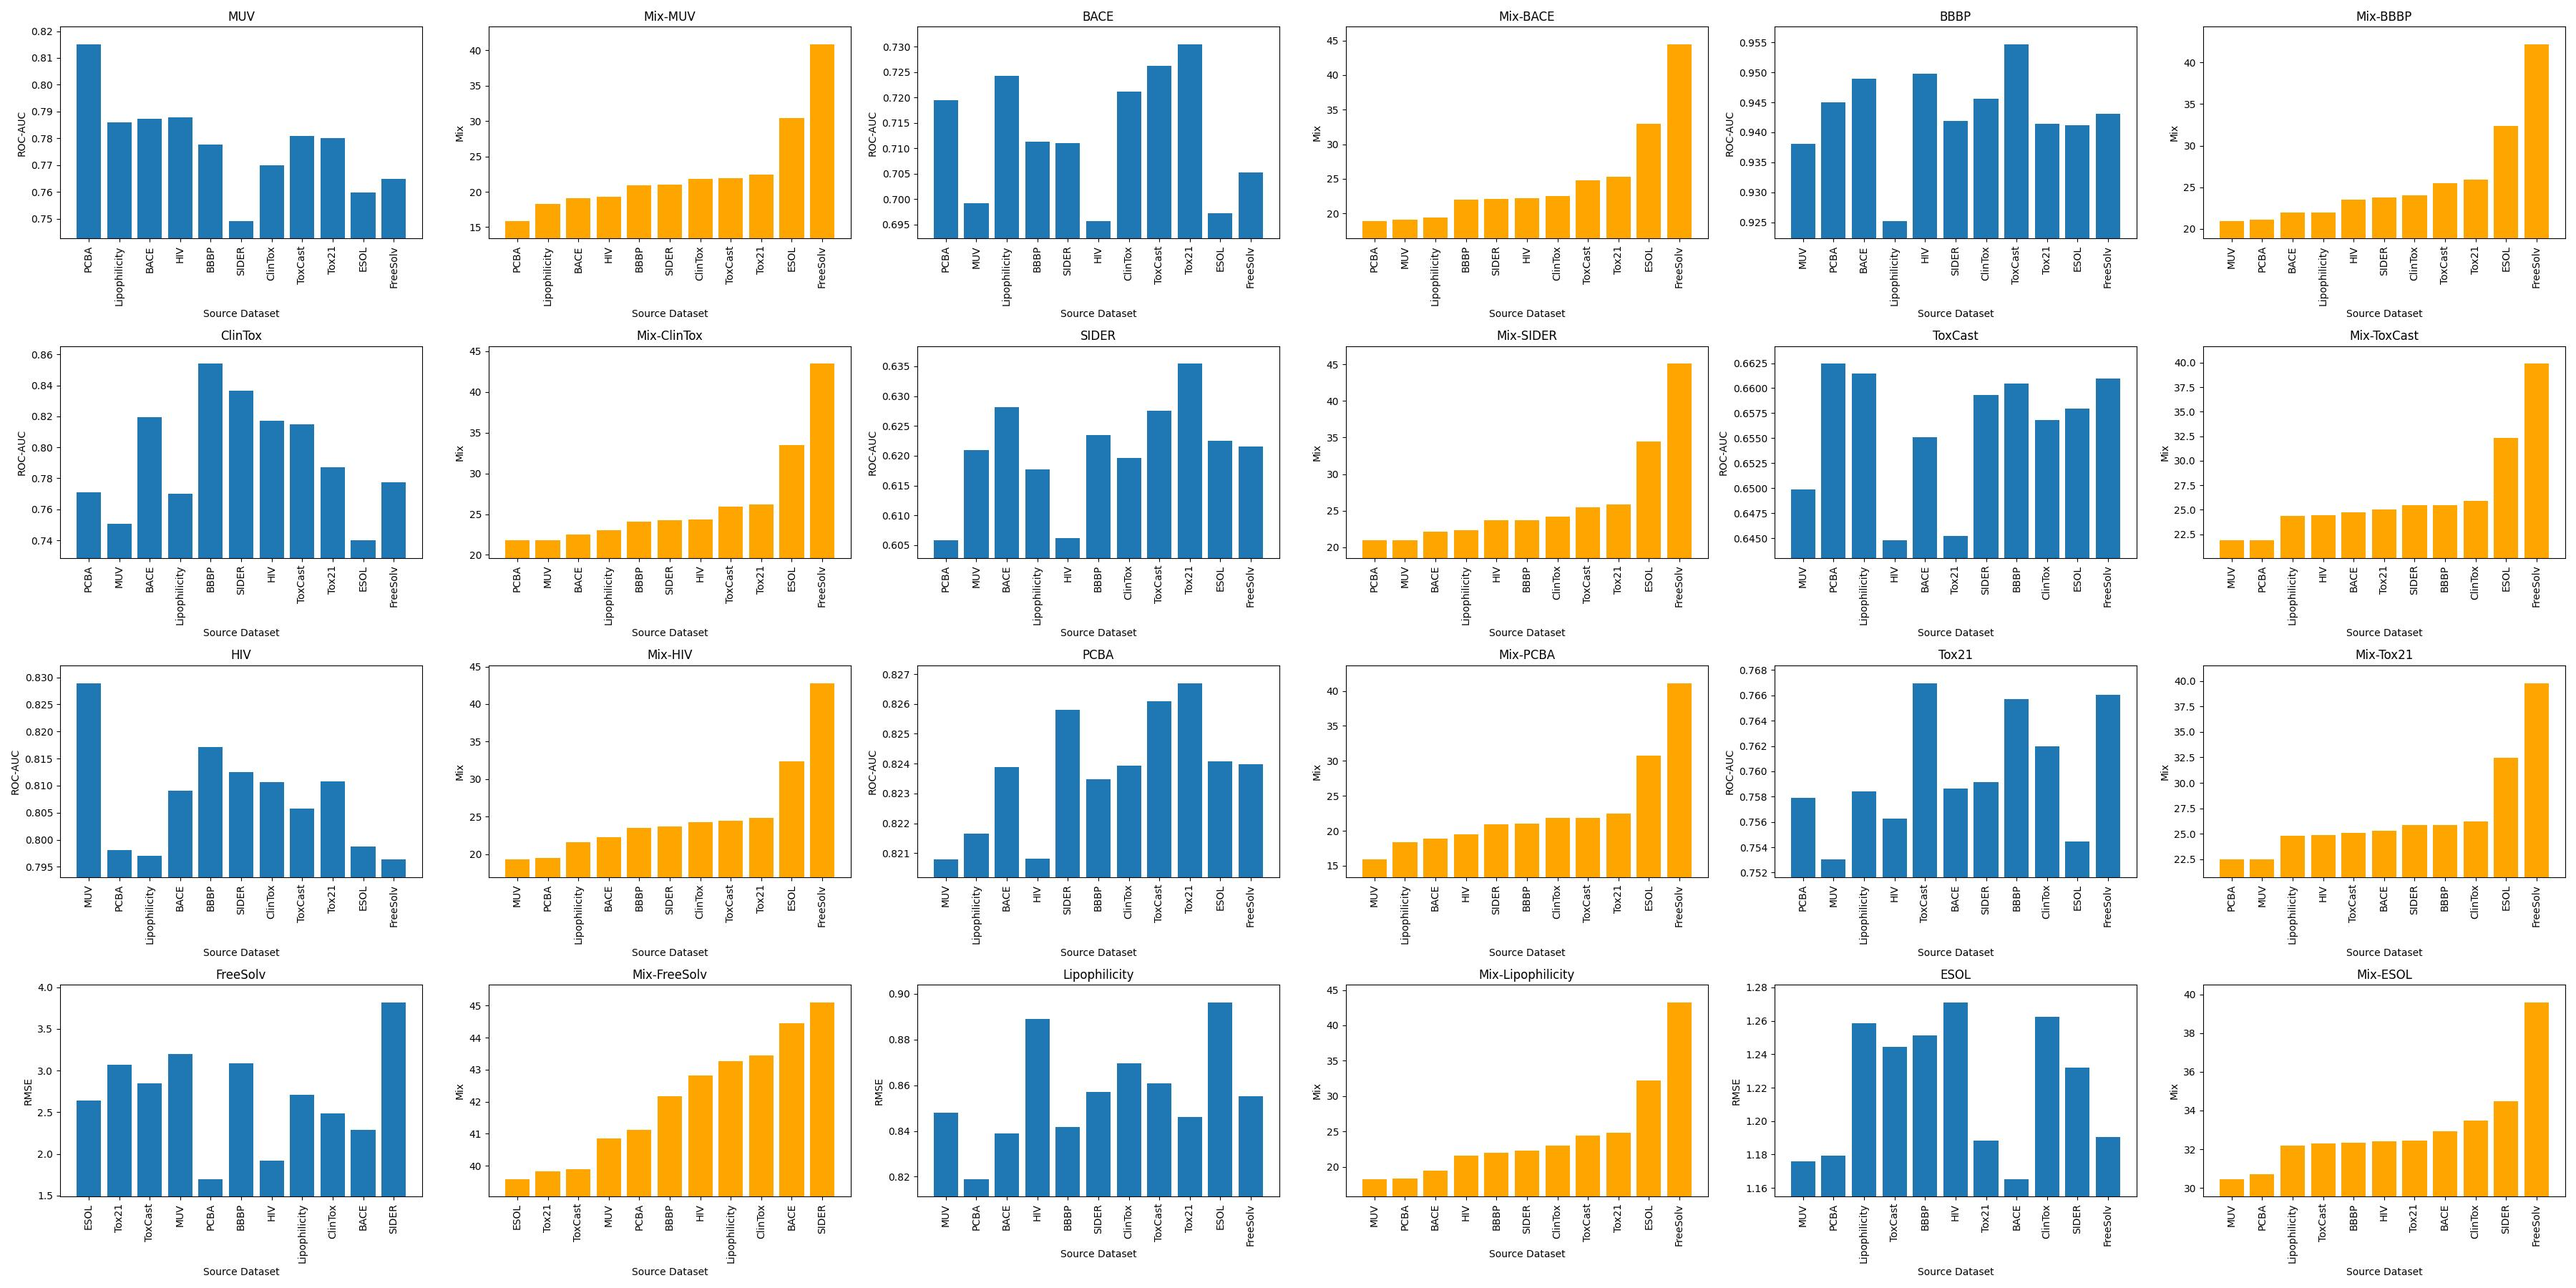
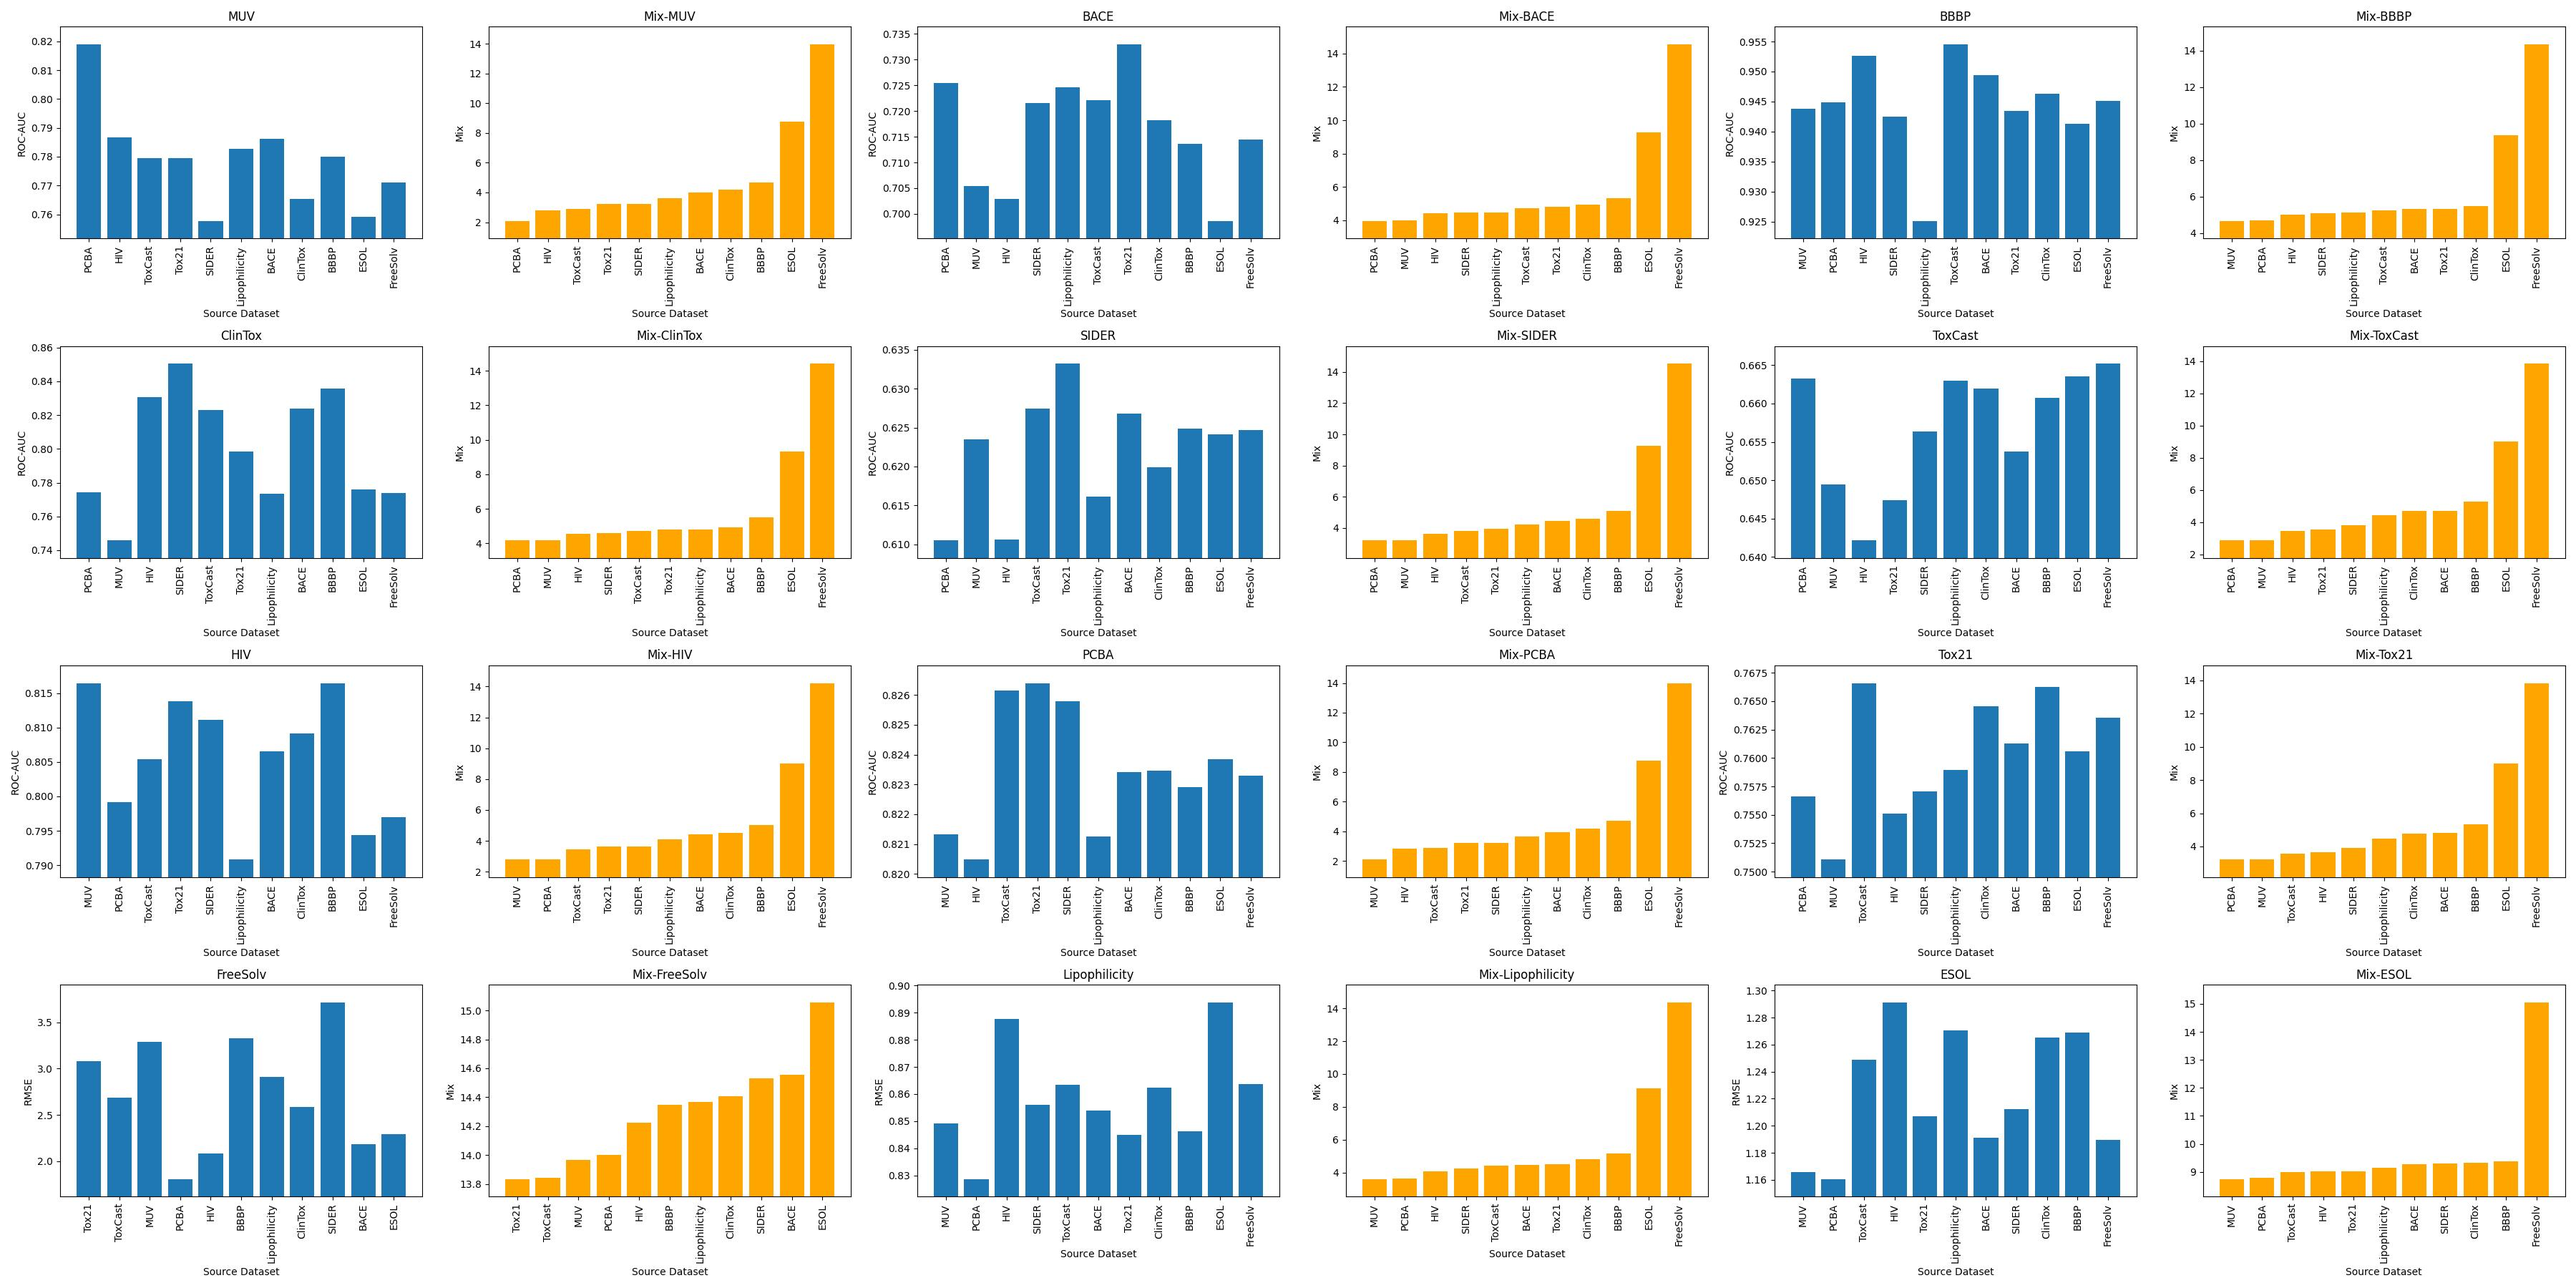
12-04-0

diff --git a/src/visualize.py b/src/visualize.py
@@ -3,18 +3,18 @@ import numpy as np
 import matplotlib.pyplot as plt
 
 datasets = ['MUV', 'BACE', 'BBBP', 'ClinTox', 'SIDER','ToxCast', 'HIV', 'PCBA', 'Tox21', 'FreeSolv', 'Lipophilicity', 'ESOL']
-finetune_scores = [[999999999.0, 0.7873669323416496, 0.7777836199478221, 0.7699824876520696, 0.7491559723061587, 0.7807813056356621, 0.7877496439008448, 0.8150619429448567, 0.7801018656679727, 0.7648326563110038, 0.7860839983610644, 0.7596532836349287],
-                    [0.699271499644634, 999999999.0, 0.7112651030561479, 0.7212153518123667, 0.710998578535892, 0.7261904761904762, 0.6957178393745558, 0.7195273631840795, 0.73045486851457, 0.7053127221037669, 0.7243248045486852, 0.6972281449893389],
-                    [0.9380337732919255, 0.9489033385093169, 999999999.0, 0.9456521739130435, 0.9419642857142858, 0.9546777950310559, 0.9497282608695652, 0.9450213509316769, 0.9414790372670807, 0.9430803571428571, 0.9252232142857142, 0.9411393633540373],
-                    [0.7508437147708948, 0.8193469326597885, 0.8540587496610871, 999999999.0, 0.8366537879760834, 0.8150231174279721, 0.8173027526863308, 0.7709144940565378, 0.7869629122251237, 0.7776106996589466, 0.7702500463775561, 0.7399949341438703],
-                    [0.6209043435004193, 0.6281871410568144, 0.6234719934746416, 0.6196350378869614, 999999999.0, 0.6275156150876701, 0.6061787386039481, 0.6058200093459737, 0.6354407733626486, 0.621568451740306, 0.6177553600938095, 0.6224797757561747],
-                    [0.6498351281788607, 0.6551176908287238, 0.6604289880621544, 0.656811559317882, 0.659352167304919, 999999999.0, 0.6447853837792411, 0.6624486988821054, 0.6452161783593846, 0.6609343554895913, 0.6614340729432195, 0.6579337299642668],
-                    [0.8289593743876151, 0.8090293087399569, 0.8171296296296295, 0.8106636108661571, 0.812541335978836, 0.8057392710170488, 999999999.0, 0.7981548843817362, 0.8108373750734862, 0.7963361013129531, 0.7970464677640604, 0.7987688002155595],
-                    [0.8207827065052304, 0.8238749027261603, 0.8234661840647646, 0.8239249963205644, 0.8258107548658267, 0.8260906362034485, 0.8208228176918884, 999999999.0, 0.8267025469461495, 0.8239807851867574, 0.8216535160089318, 0.8240880041384175],
-                    [0.7530226612888806, 0.7586637836209992, 0.7656900167500761, 0.7619578955096205, 0.7591310192687527, 0.766976389119144, 0.7562487276274534, 0.757900131075, 999999999.0, 0.7660450613424018, 0.7583954650033673, 0.7544778134006755],
-                    [-3.202622890472412, -2.2877867221832275, -3.0911046266555786, -2.485343813896179, -3.818617343902588, -2.849574565887451, -1.9228723645210266, -1.7011306285858154, -3.065954804420471, 999999999.0, -2.7069114446640015, -2.640520453453064],
-                    [-0.8480665981769562, -0.8389024138450623, -0.8416616916656494, -0.8695200979709625, -0.8569908440113068, -0.8609018623828888, -0.8891417384147644, -0.8190142214298248, -0.8461355865001678, -0.8553101718425751, 999999999.0, -0.896291047334671],
-                    [-1.1760368943214417, -1.1653852462768555, -1.251383900642395, -1.2625454664230347, -1.2320400476455688, -1.2444083094596863, -1.2710844278335571, -1.1793659925460815, -1.1881128549575806, -1.1903642416000366, -1.2583816051483154, 999999999.0],
+finetune_scores = [[999999999.0, 0.7861924121372482, 0.7799087350942115, 0.7654639608123642, 0.7576960845483156, 0.7793760539932908, 0.7866273131703517, 0.8189690441086743, 0.7794411674865491, 0.7711481395133755, 0.7827753719840105, 0.7590608776990996],
+                    [0.7054371002132196, 999999999.0, 0.7136815920398011, 0.7181592039800995, 0.7216062544420754, 0.7221748400852878, 0.7029140014214641, 0.7254442075337597, 0.7329779673063255, 0.714498933901919, 0.7245557924662402, 0.6986140724946694],
+                    [0.9438470496894411, 0.9493982919254659, 999999999.0, 0.9463509316770187, 0.9425271739130435, 0.9545225155279503, 0.9526203416149068, 0.9448951863354036, 0.9434006211180124, 0.9451669254658386, 0.9251164596273291, 0.9413431677018634],
+                    [0.7459016510409977, 0.8240406980892446, 0.8356554218930604, 999999999.0, 0.8504145440015982, 0.8229069452174038, 0.8305178589266093, 0.774236910826662, 0.7984203090885741, 0.7737966807939838, 0.7734185253364156, 0.7758219529945631],
+                    [0.623484877299781, 0.6267691401542763, 0.6248863956643044, 0.6198601344279998, 999999999.0, 0.6274552092371379, 0.6105718723733639, 0.6105073176363811, 0.633224706155442, 0.6246932989432883, 0.6161567524588716, 0.6241619227628555],
+                    [0.649411467925245, 0.6537452367018676, 0.6607451639374441, 0.6619317247742804, 0.6563262303149001, 999999999.0, 0.6421752585790734, 0.6632552905895939, 0.6474295817539781, 0.6651998780338119, 0.6629760173343747, 0.6635532206222157],
+                    [0.81648540074466, 0.8065733392122281, 0.816478664511072, 0.8091781182637663, 0.8111760239075053, 0.8054226680384087, 999999999.0, 0.799129188712522, 0.8137896825396826, 0.7969564471879286, 0.7908105526161082, 0.7943446257103665],
+                    [0.8213139299617984, 0.8234196066053749, 0.8229147411368635, 0.823463594275054, 0.8257840576800344, 0.8261521164425141, 0.8204783803525846, 999999999.0, 0.8264038958538211, 0.8232997654793435, 0.8212554395682712, 0.8238458716800471],
+                    [0.7510613509043509, 0.7613026703477526, 0.7662281843183246, 0.7645764633237604, 0.7570803525231479, 0.7665991146076095, 0.7551084656240267, 0.7566333953045269, 999999999.0, 0.7635420555095767, 0.7589476026677417, 0.7606147304007986],
+                    [-3.2857742309570312, -2.183779811859131, -3.3274004459381104, -2.588774013519287, -3.7155613899230957, -2.6853470325469972, -2.0827045679092406, -1.8103657722473145, -3.084203290939331, 999999999.0, -2.9069872856140138, -2.292416882514954],
+                    [-0.8491034150123596, -0.8539701581001282, -0.8461845517158508, -0.862350594997406, -0.8561092495918274, -0.8633780956268311, -0.8878098487854004, -0.8286849737167359, -0.8448111653327942, -0.8636900901794433, 999999999.0, -0.8938391447067261],
+                    [-1.1656569957733154, -1.1911952257156373, -1.2687829971313476, -1.2650492668151856, -1.212479591369629, -1.248785138130188, -1.2912392139434814, -1.1607176065444946, -1.2068325281143188, -1.1896514177322388, -1.2707115888595581, 999999999.0],
                     ]
 PGM_scores =   [[0.0, 1.7232850950676948, 2.24021656322293, 1.5452966908924282, 0.567035676795058, 0.03526793307173648, 0.32554140489082783, 0.024315959308296442, 0.3396617466933094, 9.953791741281748, 1.4250879758037627, 5.504459259100258], 
                 [1.7232850950676948, 0.0, 2.854190533980727, 2.3187336046248674, 1.8128186638932675, 1.7233403923455626, 1.751066738506779, 1.723094319459051, 1.7555952945258468, 10.09291154332459, 2.2449619427789003, 5.754615995101631], 
@@ -86,10 +86,23 @@ def visualize(scores1, scores2, name):
     # fig.show()
     fig.savefig(os.path.join(root_path, f"{name}.jpg"))
 
-# visualize(finetune_scores, os.path.join(root_path,"finetune"))
-# visualize(PGM_scores, os.path.join(root_path,"PGM"))
-# visualize(molecule_sims, os.path.join(root_path,"molecule"))
 
 visualize(finetune_scores, PGM_distance, "PGM")
 visualize(finetune_scores, molecule_distance, "Molecule")
-visualize(finetune_scores, PGM_distance + molecule_distance*2.164, "Mix")
+visualize(finetune_scores, PGM_distance + molecule_distance*0.281, "Mix")
+
+def transfermap(scores, name):
+    plt.figure(figsize=(8,8))
+    plt.imshow(scores, cmap='viridis', interpolation='nearest')
+    plt.xticks(range(12), datasets, rotation=90) 
+    plt.yticks(range(12), datasets)
+    plt.colorbar(shrink=0.7)
+    for i in range(12):
+        for j in range(12):
+            plt.text(j, i, f"{scores[i,j]:.2f}", ha='center', va='center', color='white')
+    plt.title(f"Transfer Map : {name}")
+    plt.tight_layout()
+    plt.savefig(os.path.join(root_path, f"tranfermap_{name}.jpg"))
+
+transfermap(PGM_distance, "PGM")
+transfermap(PGM_distance + molecule_distance*0.281, "Mix")

diff --git a/src/rank_eval.py b/src/rank_eval.py
@@ -2,7 +2,7 @@ import numpy as np
 from scipy.stats import spearmanr,kendalltau
 
 datasets = ['MUV', 'BACE', 'BBBP', 'ClinTox', 'SIDER','ToxCast', 'HIV', 'PCBA', 'Tox21', 'FreeSolv', 'Lipophilicity', 'ESOL']
-repeat_finetune_times = 2
+repeat_finetune_times = 5
 
 def printRankString(ranks):
     for i in range(len(ranks)):
